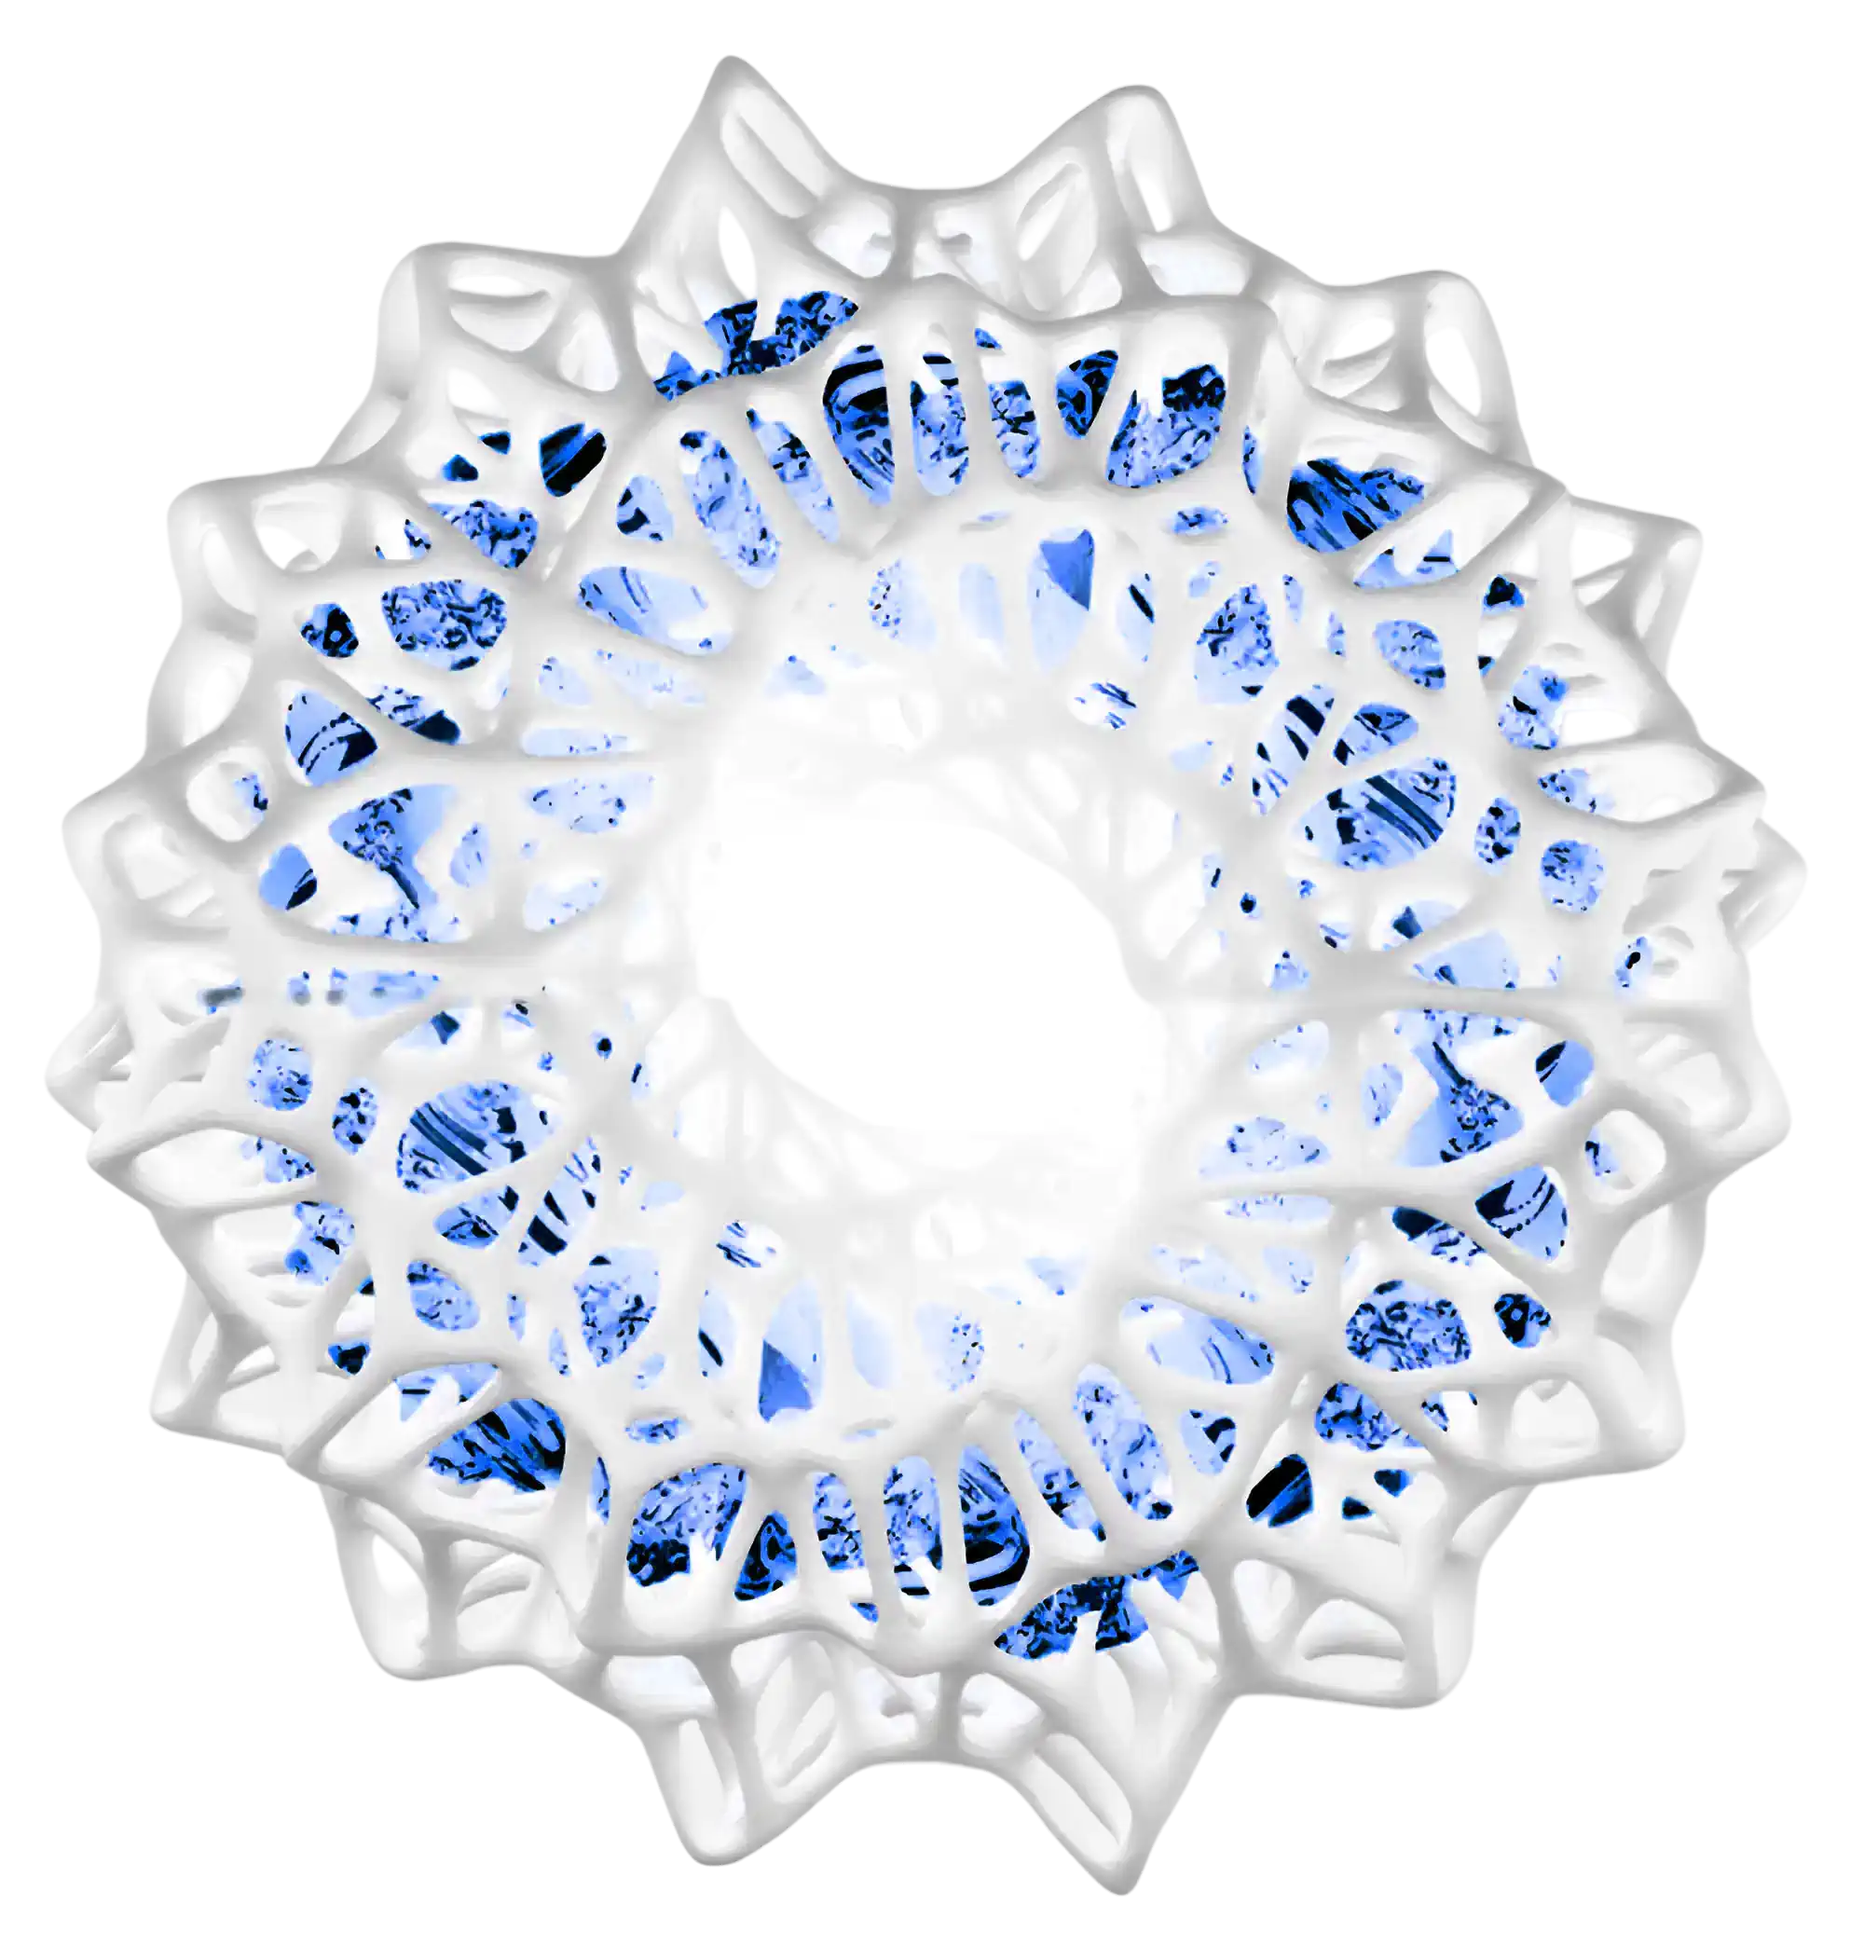
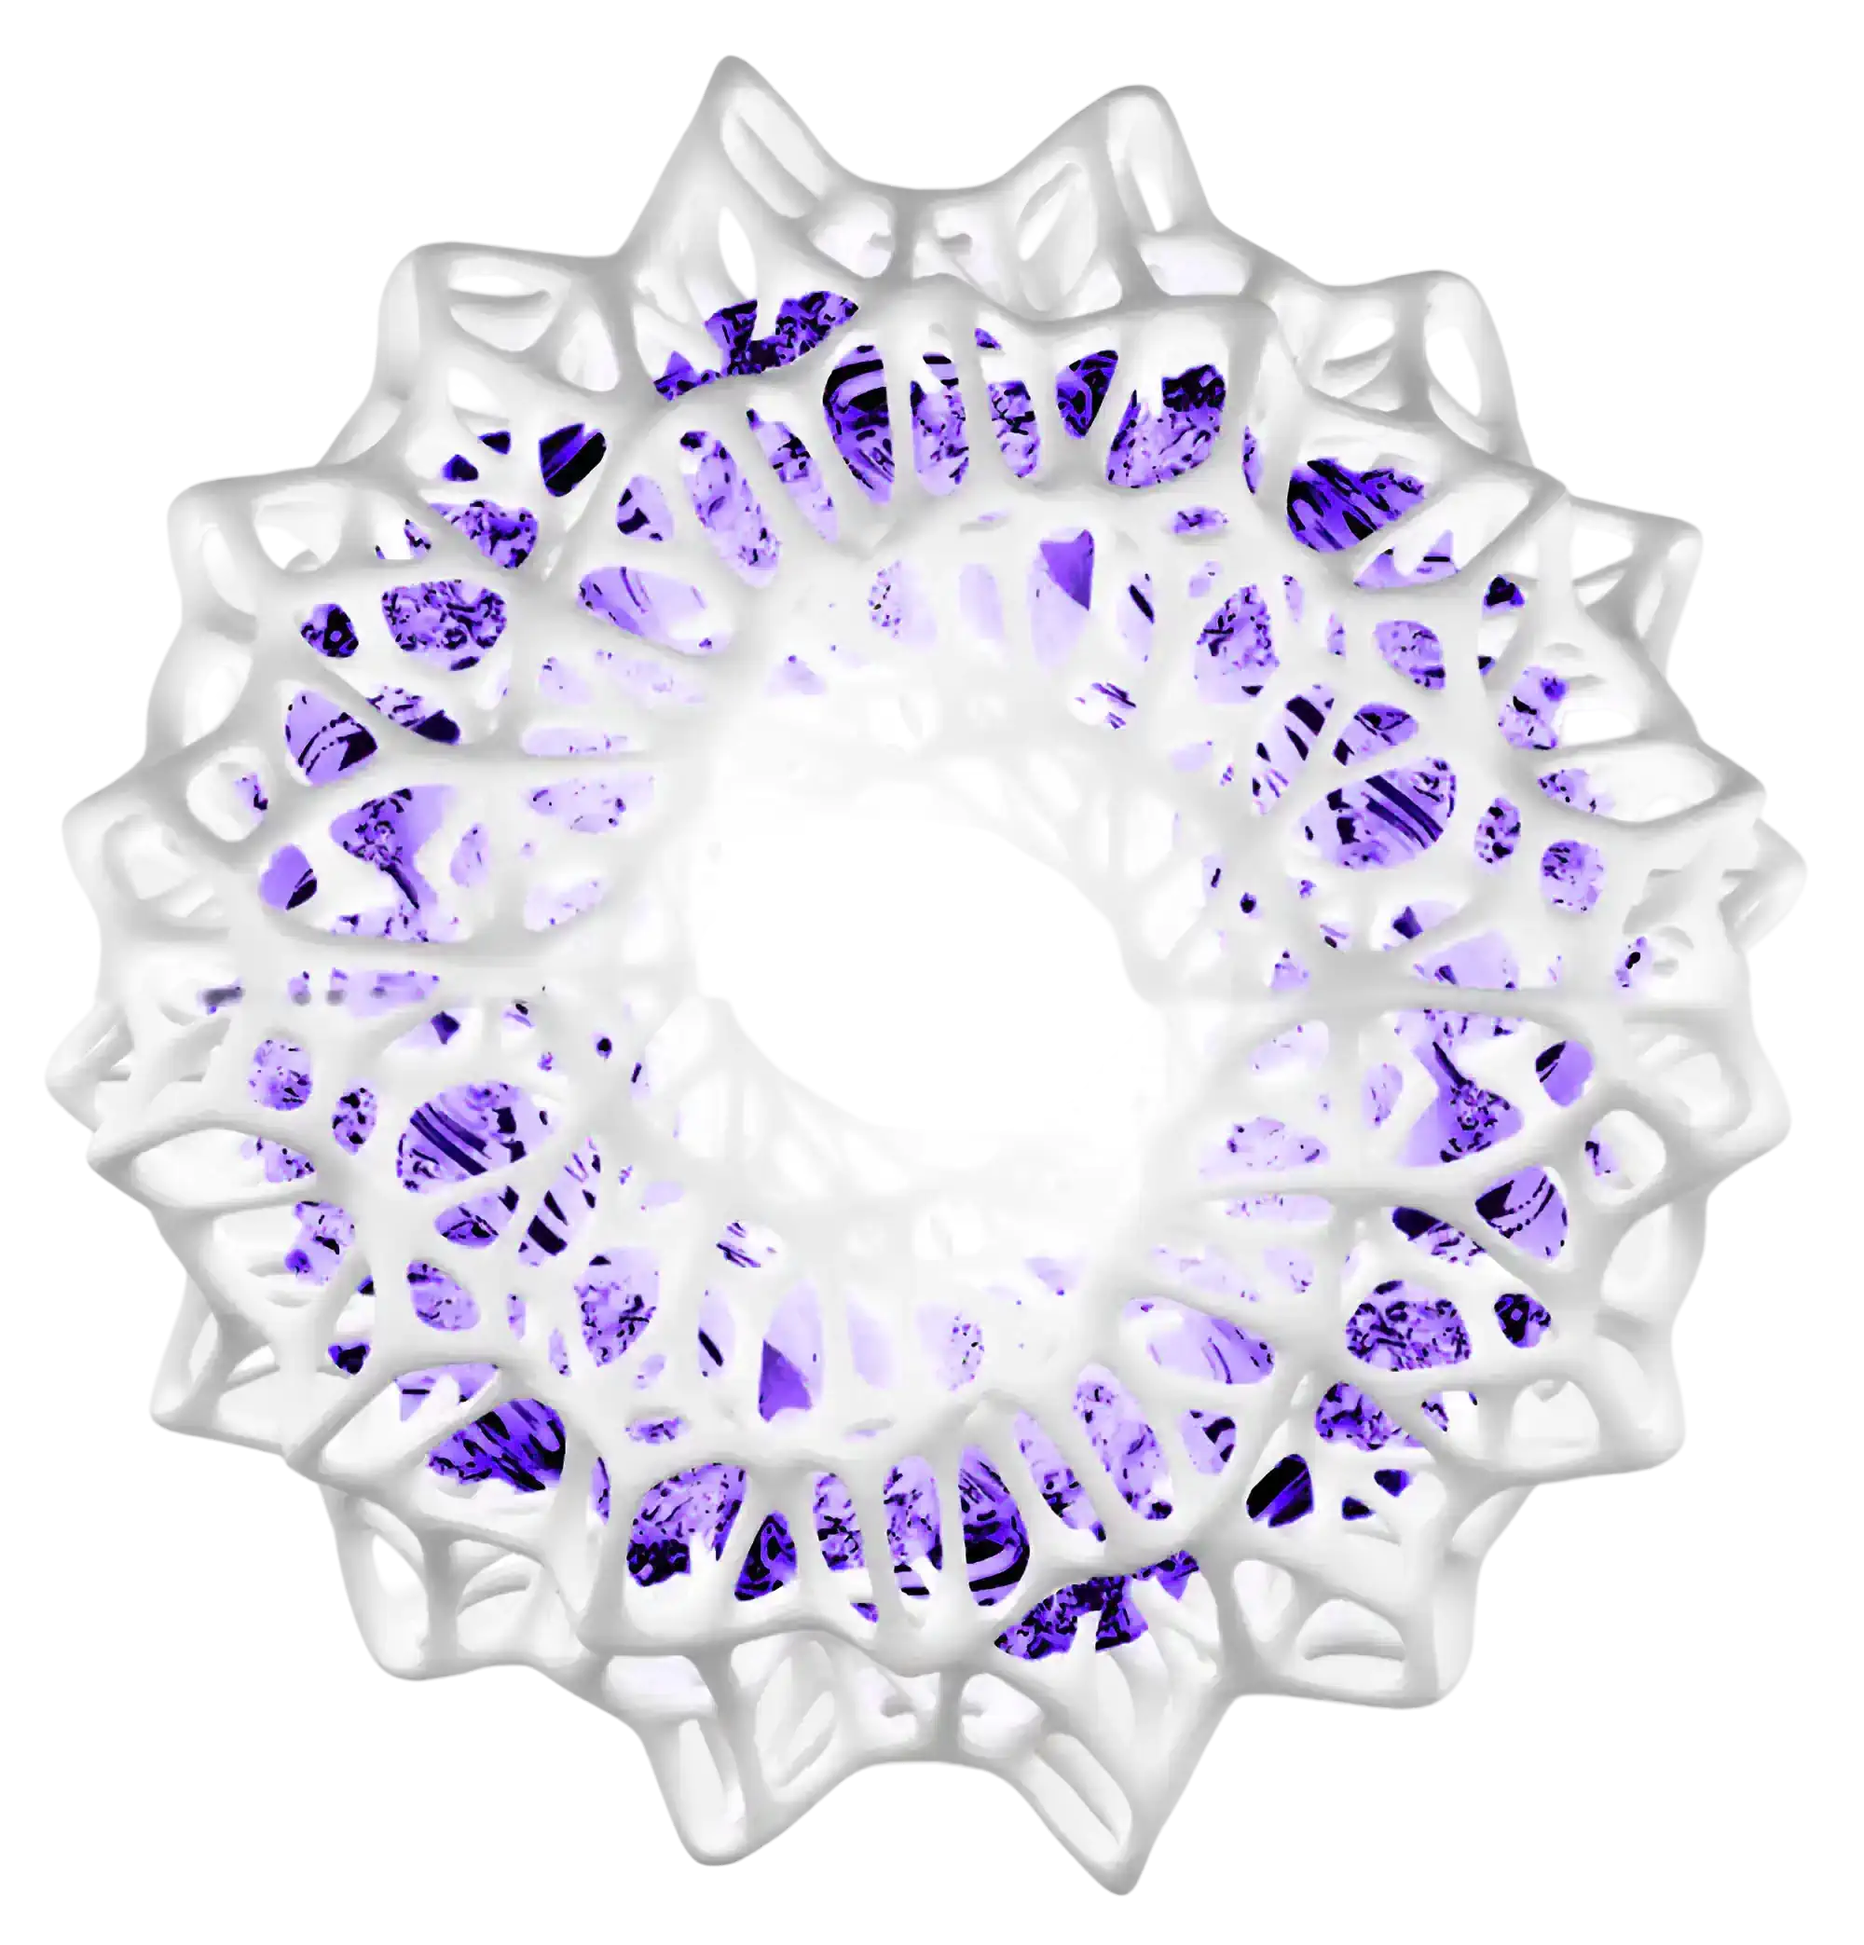
Remove box-shadow from various components and update styles for consistency. Add new image asset for Preview component and adjust text stroke width in content styles. Update background colors in global styles for improved visual coherence.

diff --git a/components/Preview/Preview.jsx b/components/Preview/Preview.jsx
@@ -2,6 +2,7 @@ import React from "react";
 import styles from "./Preview.module.css";
 import preview_bg from "../../images/preview_bg.webp";
 import preview_bg_light from "../../images/preview_bg_light.webp";
+import vadgra from "../../images/vadgra.webp";
 import Image from "next/image.js";
 import { VisibilityManager } from "../shared/VisibilityManager";
 import { LineAnimation } from "../LineAnomation/LineAnimation";
@@ -51,11 +52,12 @@ export const Preview = () => {
           <div className={styles.social_links}>
             <span
               className={styles.social_link}
-              style={{ position: "relative", cursor: "not-allowed" }}
+              style={{ position: "relative", cursor: "not-allowed", background: "transparent", boxShadow: "none" }}
             >
               <svg
                 className={styles.social_icon}
                 width="24"
+      
                 height="24"
                 viewBox="0 0 24 24"
                 fill="none"
@@ -79,27 +81,13 @@ export const Preview = () => {
                   pointerEvents: "none",
                 }}
               >
-                <svg
-                  width="60"
-                  height="60"
-                  viewBox="0 0 24 24"
-                  fill="none"
-                  xmlns="http://www.w3.org/2000/svg"
+                <Image
+                  src={vadgra}
+                  alt="overlay"
+                  width={50}
+                  height={50}
                   style={{ position: "absolute" }}
-                >
-                  <path
-                    d="M19 5L5 19"
-                    stroke="red"
-                    strokeWidth="2.5"
-                    strokeLinecap="round"
-                  />
-                  <path
-                    d="M5 5L19 19"
-                    stroke="red"
-                    strokeWidth="2.5"
-                    strokeLinecap="round"
-                  />
-                </svg>
+                />
               </div>
               <span className={styles.social_label}>VK</span>
             </span>
@@ -147,7 +135,7 @@ export const Preview = () => {
             </a>
             <span
               className={styles.social_link}
-              style={{ position: "relative", cursor: "not-allowed" }}
+              style={{ position: "relative", cursor: "not-allowed", background: "transparent", boxShadow: "none" }}
             >
               <svg
                 className={styles.social_icon}
@@ -175,27 +163,13 @@ export const Preview = () => {
                   pointerEvents: "none",
                 }}
               >
-                <svg
-                  width="60"
-                  height="60"
-                  viewBox="0 0 24 24"
-                  fill="none"
-                  xmlns="http://www.w3.org/2000/svg"
+                <Image
+                  src={vadgra}
+                  alt="overlay"
+                  width={50}
+                  height={50}
                   style={{ position: "absolute" }}
-                >
-                  <path
-                    d="M19 5L5 19"
-                    stroke="red"
-                    strokeWidth="2.5"
-                    strokeLinecap="round"
-                  />
-                  <path
-                    d="M5 5L19 19"
-                    stroke="red"
-                    strokeWidth="2.5"
-                    strokeLinecap="round"
-                  />
-                </svg>
+                />
               </div>
               <span className={styles.social_label}>Дзен</span>
             </span>

diff --git a/components/Navigation/Navigation.module.css b/components/Navigation/Navigation.module.css
@@ -85,7 +85,6 @@
     transform: scaleY(0);
     transform-origin: 0 0 0;
     transition: all 0.4s ease-in-out;
-    box-shadow: 0 0 10px 0 rgba(0, 0, 0, 0.2);
 }
 
 .dropdown_visible {
@@ -143,11 +142,12 @@
     align-items: center;
     justify-content: center;
     transition: all 0.3s ease;
+    transform: rotate(-45deg);
 }
 
 .theme-toggle__button:hover {
     color: var(--accent);
-    transform: rotate(30deg);
+    transform: rotate(-30deg);
 }
 
 .theme-toggle_mobile {
@@ -155,17 +155,17 @@
     background: none;
     border: none;
     cursor: pointer;
-    color: var(--font-color);
+    color: white;
     padding: 8px;
     position: absolute;
     top: 15px;
     left: 15px;
     z-index: 2;
-    background-color: var(--card-color);
+    background-color: var(--accent);
     border-radius: 50%;
-    box-shadow: 0 0px 10px rgba(0, 0, 0, 0.2);
     width: 40px;
     height: 40px;
+    transform: rotate(-45deg);
     align-items: center;
     justify-content: center;
 }
@@ -268,16 +268,17 @@
         padding: 10px;
         display: block;
         border-radius: 50%;
-        box-shadow: 0 0px 10px rgba(0, 0, 0, 0.2);
+
     }
 
     .navigation__arrow-container {
         width: 20px;
         height: 20px;
-        background-color: var(--card-color);
+        background-color: var(--accent);
         border-radius: 50%;
-        box-shadow: 0 0 0 10px var(--card-color);
+        box-shadow: 0 0 0 10px var(--accent);
         z-index: 1;
+        color: white;
         display: block;
 
     }
@@ -304,16 +305,15 @@
         cursor: pointer;
         z-index: 1000;
         transition: transform 0.5s ease;
-        background-color: var(--card-color);
+        background-color: var(--accent);
         border-radius: 50%;
-        box-shadow: 0 0px 10px rgba(0, 0, 0, 0.2);
     }
     
     .burger__line {
         width: 25px;
         height: 2px;
         margin: 4px 0;
-        background-color: var(--font-color);
+        background-color: white;
         transition: all 0.3s ease;
     }
     

diff --git a/components/Suggests/Suggests.jsx b/components/Suggests/Suggests.jsx
@@ -4,6 +4,7 @@ import { LineAnimation } from "../LineAnomation/LineAnimation";
 import { VisibilityManager } from "../shared/VisibilityManager";
 import chart from "../../images/chart.webp";
 import Image from "next/image";
+import contentStyles from "../../styles/contentStyles.module.css";
 
 export const Suggest = () => {
   const [loaded, setLoaded] = React.useState(false);
@@ -11,8 +12,8 @@ export const Suggest = () => {
   return (
     <LineAnimation>
       <div className={styles.block}>
-        <VisibilityManager as="h2" side="left" className={styles.title}>
-          <span className={styles.title_empty}>Что я </span>
+        <VisibilityManager as="h2" side="left" className={contentStyles.title}>
+          <span className={contentStyles.title_empty}>Что я </span>
           предлагаю вам?
         </VisibilityManager>
 

diff --git a/components/Questions/Questions.jsx b/components/Questions/Questions.jsx
@@ -1,16 +1,17 @@
 import React, { useState } from "react";
 
 import styles from "./Questions.module.css";
+
 import { VisibilityManager } from "../shared/VisibilityManager";
 import { LineAnimation } from "../LineAnomation/LineAnimation.jsx";
-
+import contentStyles from "../../styles/contentStyles.module.css";
 export const Questions = ({ questionsContent }) => {
   return (
     <LineAnimation>
       <div>
         <VisibilityManager className={`${styles.container}`} id="faq">
-          <h2 className={styles.question__main_title}>
-            <span className={styles.title_empty}> Вопросы и </span> ответы
+          <h2 className={contentStyles.title}>
+            <span className={contentStyles.title_empty}> Вопросы и </span> ответы
           </h2>
           <ul>
             {questionsContent.blocks.map((q) => {

diff --git a/components/Suggests/Suggests.module.css b/components/Suggests/Suggests.module.css
@@ -4,21 +4,7 @@
   padding: 100px 30px 100px;
 }
 
-.title {
-  font-size: 60px;
-  font-weight: 700;
-  line-height: 72px;
-  flex-basis: 70%;
-  text-transform: uppercase;
-  margin-bottom: 60px;
-  color: var(--font-color);
-}
 
-.title_empty {
-  -webkit-text-fill-color: transparent;
-  -webkit-text-stroke-width: 1px;
-  -webkit-text-stroke-color: var(--font-color);
-}
 
 .description {
   flex-basis: 40%;
@@ -103,12 +89,6 @@
     flex-basis: 100%;
   }
 
-  .title {
-    font-size: 40px;
-    line-height: 50px;
-    flex-basis: 100%;
-    margin-bottom: 0;
-  }
 
   .grid-container {
     grid-template-areas:

diff --git a/styles/global.css b/styles/global.css
@@ -14,7 +14,7 @@
   --body-font: "Rubik";
   --transition: 500ms all ease;
 
-  --bg-color: #0d0d0d;
+  --bg-color: #000000;
   --font-color: #ffffff;
   --secondary-font-color: #a2a2a2;
   --accent: #eeb100;
@@ -47,9 +47,9 @@
   --bg-color: #ffffff;
   --font-color: #828282;
   --secondary-font-color: #6f6f6f;
-  --accent: #3467ff;
+  --accent: #9c6aff;
   --accent-rgb: 52, 103, 255;
-  --border-color: #ebebeb;
+  --border-color: #ffffff;
   --card-color: #ebebeb;
   --bg-color-opacity: #2e2e2e25;
   --nav-mobile-opacity: #d8d8d8e0;

diff --git a/components/shared/Input/Input.module.css b/components/shared/Input/Input.module.css
@@ -17,13 +17,11 @@
     background-color: var(--bg-color);
     border: 1px solid var(--border-color);
     transition: all 0.2s;
-    box-shadow: 0 0 10px 0 rgba(0, 0, 0, 0.2);
 }
 
 .input:focus {
   outline: none;
   border-color: var(--accent);
-  box-shadow: 0 0 0 3px rgba(59, 130, 246, 0.2);
 }
 
 .input:disabled {

diff --git a/components/Preview/Preview.module.css b/components/Preview/Preview.module.css
@@ -51,8 +51,9 @@
 
 .preview__title_empty {
   -webkit-text-fill-color: transparent;
-  -webkit-text-stroke-width: 1px;
+  -webkit-text-stroke-width: 2px;
   -webkit-text-stroke-color: var(--font-color);
+  /* color: var(--accent); */
 }
 
 /* Responsive styles */

diff --git a/components/Questions/Questions.module.css b/components/Questions/Questions.module.css
@@ -14,11 +14,6 @@
     text-transform: uppercase;
 }
 
-.title_empty {
-    -webkit-text-fill-color: transparent;
-    -webkit-text-stroke-width: 1px;
-    -webkit-text-stroke-color: var(--font-color);
-}
 
 .question {
     margin-bottom: 30px;

diff --git a/components/Products/styles/ProductGrid.module.css b/components/Products/styles/ProductGrid.module.css
@@ -40,7 +40,6 @@
   background: linear-gradient(-45deg, var(--accent) 16%, var(--bg-color) 53%, var(--bg-color) 83%);
   opacity: 0;
   transition: opacity 1s ease-in-out;
-  box-shadow: 0 0 10px 0 rgba(0, 0, 0, 0.2);
 }
 
 .card.disabled {

diff --git a/components/shared/Button/Button.module.css b/components/shared/Button/Button.module.css
@@ -30,7 +30,6 @@
   text-align: center;
   overflow: hidden; /* Ограничить границы прогресса */
   user-select: none;;
-  box-shadow: 0 0 10px 0 rgba(0, 0, 0, 0.2);
 }
 
 .inner {

diff --git a/styles/contentStyles.module.css b/styles/contentStyles.module.css
@@ -44,7 +44,7 @@
 
 .title_empty {
   -webkit-text-fill-color: transparent;
-  -webkit-text-stroke-width: 1px;
+  -webkit-text-stroke-width: 2px;
   -webkit-text-stroke-color: var(--font-color);
 }
 
